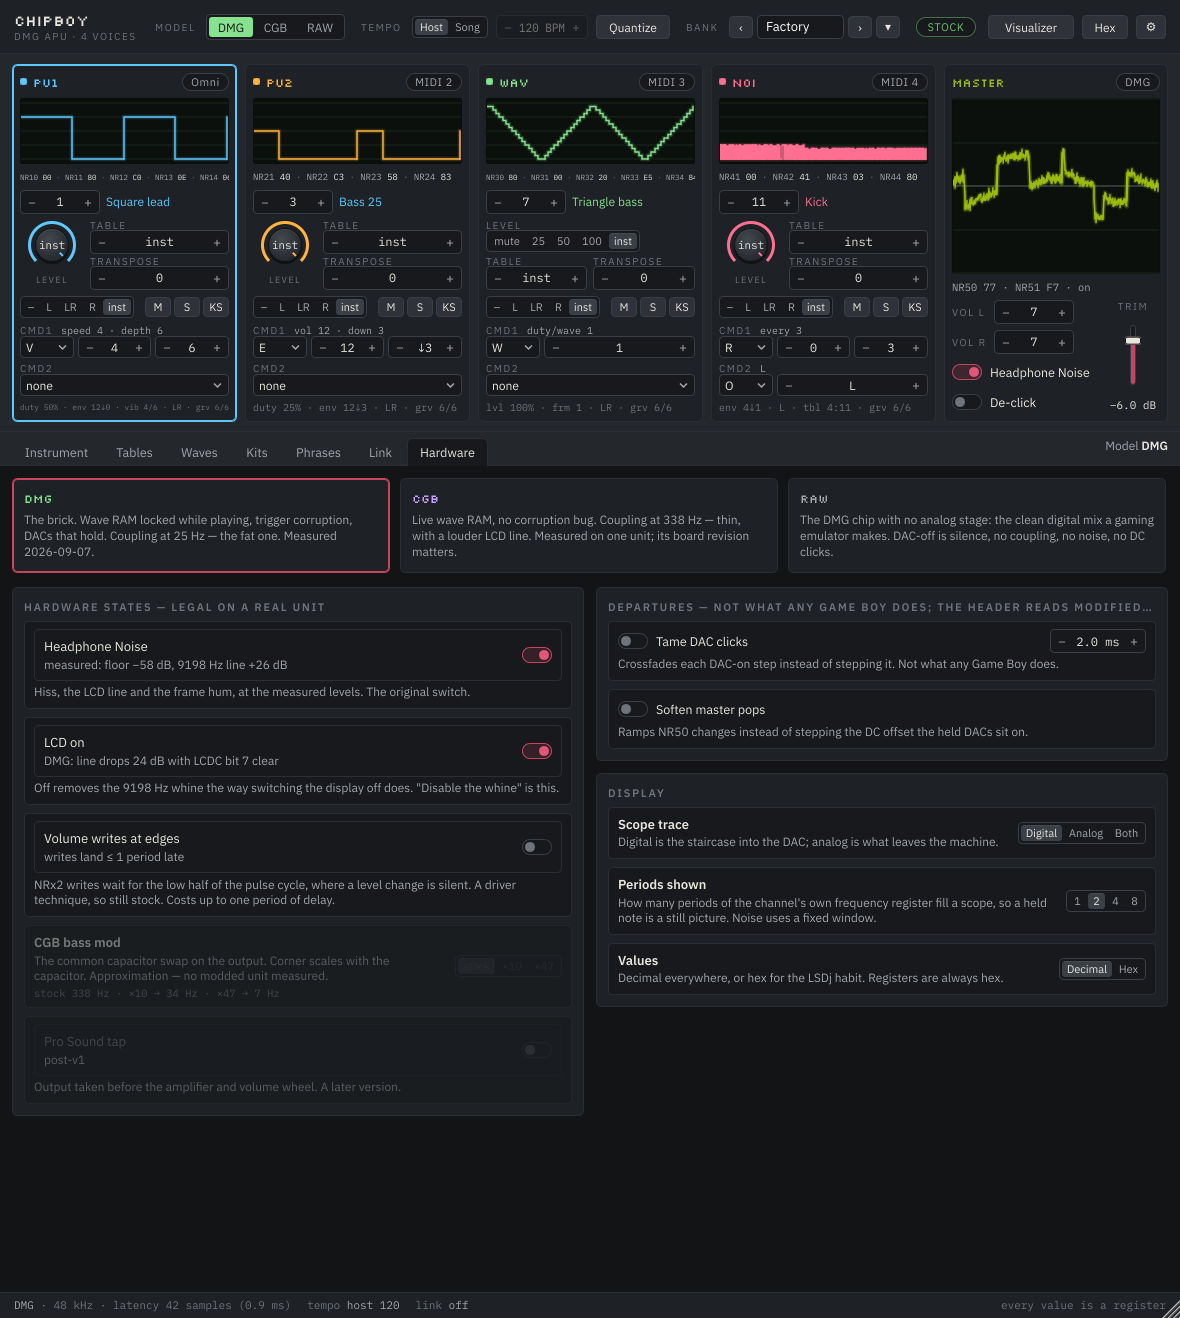
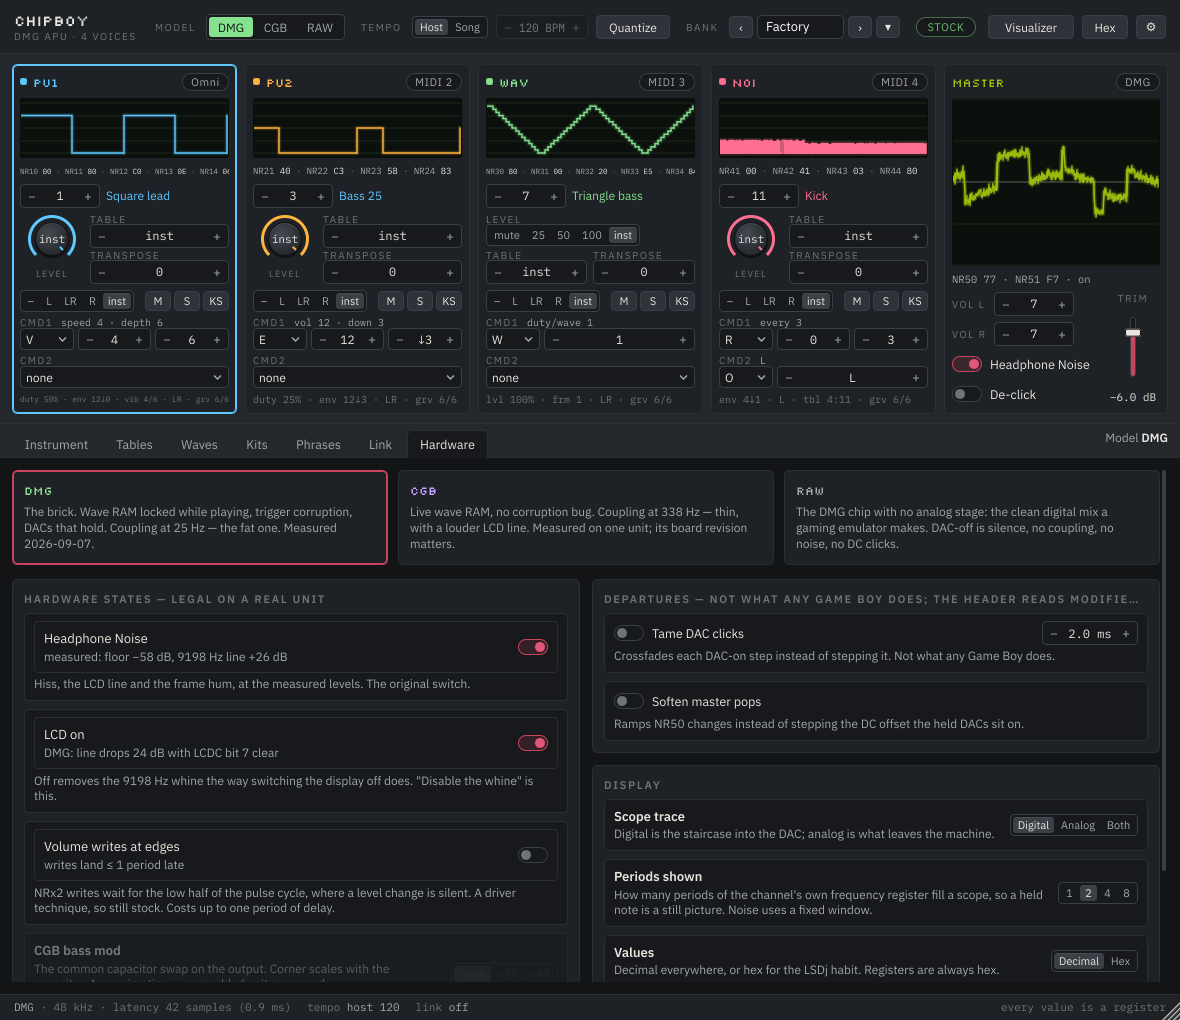
The window fits a 1080p screen: 1180 x 1020
1318 was taller than a 1080p desktop leaves once the host has taken its
own chrome, so the tab that set it got denser rather than the window
getting a scrollbar back.

The Instrument tab lays its four cards two to a row -- Sound beside
Envelope, Modulation beside Table & note behaviour. The left column is
the width three 150 px field columns need and the right two, so the
knobs and segments sit three and two abreast instead of filing down one
wide column: 510 px of content where the single column wanted 802, with
every field still there. The envelope preview is 90 px of drawing, which
is all a one-second envelope needs, and at that width the Result sits
beside the Rate knob instead of taking a row of its own. The wave's
Frame loop takes two field columns, its three words being too long for
one.

The mixer strip is 350 rather than 358: the scope is 60 px instead of
66, and the two command slots and the running-state line read as one
block on a 4 px gap.

So the minimum is header 54 + mixer row 370 + tab bar 34 + a 536 editor
pane + status line 26. The pane is 512 and its padding, which is what the
two fullest tabs ask for: the Instrument cards need 510 and the Phrases
lane's sixteen steps 512 under its head, so neither scrolls at the
smallest size. The Hardware tab wants 654 and scrolls until the window is
stretched, as the 128-slot bank lists always will.

Claude-Session: https://claude.ai/code/session_015RVPKMpKBZ57UV3Y3PWKkJ

diff --git a/Source/plugin/main/panels/InstrumentPanel.cpp b/Source/plugin/main/panels/InstrumentPanel.cpp
@@ -9,6 +9,14 @@ using namespace chipboy::ui;
 
 namespace {
 constexpr int kListWidth = 220, kGap = 14, kListHeader = 28, kListButtons = 26;
+/// The cards go two to a row. The right column is fixed at the width two
+/// 150 px field columns need with the card's padding; the left column takes
+/// the rest, which is three of them. Keeping the tab down to two card rows
+/// is what lets the window fit a 1080p screen (UI_DESIGN section 2).
+constexpr int kNarrowCard = 380;
+/// One second of envelope. It reads at this width, and at this width the
+/// Result sits beside the Rate knob instead of taking a row of its own.
+constexpr int kEnvPreview = 90;
 
 String envMsText(int rate) { return rate > 0 ? String(rate * 15.625, 1) + " ms/step" : String("hold"); }
 String dash() { return String(CharPointer_UTF8("\xe2\x80\x93")); }
@@ -383,12 +391,12 @@ void InstrumentPanel::rebuildEditor()
         k->onChange = [this, set](int v) { edit([set, v](bank::Instrument& i) { set(i, v); }); };
         return g.addField(label, hint, std::move(k), Knob::kHeight, Knob::kWidth);
     };
-    auto seg = [this](FlowGrid& g, const String& label, const String& hint, const StringArray& opts, std::function<void(bank::Instrument&, int)> set) {
+    auto seg = [this](FlowGrid& g, const String& label, const String& hint, const StringArray& opts, std::function<void(bank::Instrument&, int)> set, int columns = 1) {
         auto s = std::make_unique<Segmented>(opts);
         s->setMini(true);
         s->onChange = [this, set](int v) { edit([set, v](bank::Instrument& i) { set(i, v); }); };
         const int h = s->preferredHeight(), w = s->preferredWidth();
-        return g.addField(label, hint, std::move(s), h, w);
+        return g.addField(label, hint, std::move(s), h, w, columns);
     };
     auto stepper = [this](FlowGrid& g, const String& label, const String& hint, int lo, int hi, int def, std::function<String(int)> text, std::function<void(bank::Instrument&, int)> set, int width) {
         auto s = std::make_unique<Stepper>();
@@ -426,7 +434,8 @@ void InstrumentPanel::rebuildEditor()
                            [this](int v) { const auto bk = processor.bank(); const bank::Wave* wv = bk ? bk->wave(v) : nullptr; return wv ? slotAndName(v, wv->name) + middot() + String(int(wv->frames.size())) + " fr" : slotAndName(v, "empty"); },
                            [](bank::Instrument& i, int v) { i.wave = uint8_t(v); }, 0);
         w_->frameAdv = knob(*sound, "Frame advance", "ticks per frame; 0 holds", 0, 15, 0, [](bank::Instrument& i, int v) { i.frameAdvance = uint8_t(v); });
-        w_->frameLoop = seg(*sound, "Frame loop", "how the frames run", { "Loop", "One-shot", "Ping-pong" }, [](bank::Instrument& i, int v) { i.frameLoop = bank::FrameLoop(std::clamp(v, 0, 2)); });
+        // three long words: it takes two field columns rather than squeeze
+        w_->frameLoop = seg(*sound, "Frame loop", "how the frames run", { "Loop", "One-shot", "Ping-pong" }, [](bank::Instrument& i, int v) { i.frameLoop = bank::FrameLoop(std::clamp(v, 0, 2)); }, 2);
         w_->waveLevel = seg(*sound, "Volume", "NR32 6-5" + middot() + "no envelope here", { "mute", "25", "50", "100" }, [](bank::Instrument& i, int v) { i.waveLevel = uint8_t(v); });
     } else if (type == bank::InstrumentType::Kit) {
         w_->kit = stepper(*sound, "Kit", "streamed through wave RAM", 1, bank::kKitSlots, 1,
@@ -443,10 +452,10 @@ void InstrumentPanel::rebuildEditor()
         w_->noiseSweep = knob(*sound, "Noise sweep", "shift steps per tick, repeated NR43 writes", -7, 7, 0, [](bank::Instrument& i, int v) { i.noiseSweep = int8_t(v); },
                               [](int v) { return ValueFormat::signedNumber(v); });
     }
-    stack->add(std::make_unique<Card>("Sound", std::move(sound)));
+    std::vector<std::unique_ptr<Block>> cards;
+    cards.push_back(std::make_unique<Card>("Sound", std::move(sound)));
 
-    // --- envelope | modulation ------------------------------------------------
-    auto groups = std::make_unique<Columns>(12);
+    // --- envelope ---------------------------------------------------------
     const bool hasEnvelope = type == bank::InstrumentType::Pulse || type == bank::InstrumentType::Noise;
     if (hasEnvelope) {
         const String nr = type == bank::InstrumentType::Noise ? "NR42" : "NR12/22";
@@ -456,20 +465,20 @@ void InstrumentPanel::rebuildEditor()
         w_->envRate = knob(*env, "Rate", nr + " 2-0: 0 = hold, 1-7 = n x 15.6 ms", 0, 7, 0, [](bank::Instrument& i, int v) { i.envRate = uint8_t(v); });
         auto preview = std::make_unique<EnvPreview>();
         w_->envPreview = preview.get();
-        w_->envResult = env->add(std::make_unique<Field>("Result", envMsText(inst.envRate), std::move(preview), 64, 0, 2));
-        groups->add(std::make_unique<Card>("Envelope", std::move(env), String(CharPointer_UTF8("\xe2\x80\x94")) + " one " + nr + " write, then the chip runs it"));
+        w_->envResult = env->add(std::make_unique<Field>("Result", envMsText(inst.envRate), std::move(preview), 64, kEnvPreview));
+        cards.push_back(std::make_unique<Card>("Envelope", std::move(env), String(CharPointer_UTF8("\xe2\x80\x94")) + " one " + nr + " write, then the chip runs it"));
     }
+
+    // --- modulation -------------------------------------------------------
     auto mod = std::make_unique<FlowGrid>();
     w_->vibShape = seg(*mod, "Vibrato", "a signed period offset, recomputed each tick", { "Tri", "Sq", String(CharPointer_UTF8("Saw\xe2\x86\x91")), String(CharPointer_UTF8("Saw\xe2\x86\x93")) },
                        [](bank::Instrument& i, int v) { i.vib.shape = bank::VibShape(std::clamp(v, 0, 3)); });
     w_->vibSpeed = knob(*mod, "Speed", "ticks per step", 1, 15, 4, [](bank::Instrument& i, int v) { i.vib.speed = uint8_t(v); });
     w_->vibDepth = knob(*mod, "Depth", "raw period units, not cents", 0, 15, 0, [](bank::Instrument& i, int v) { i.vib.depth = uint8_t(v); });
     w_->vibDelay = knob(*mod, "Delay", "ticks before it starts", 0, 255, 0, [](bank::Instrument& i, int v) { i.vib.delay = uint8_t(v); });
-    groups->add(std::make_unique<Card>("Modulation", std::move(mod)));
-    stack->add(std::move(groups));
+    cards.push_back(std::make_unique<Card>("Modulation", std::move(mod)));
 
-    // --- table & note behaviour ------------------------------------------------
-    auto groups2 = std::make_unique<Columns>(12);
+    // --- table & note behaviour -------------------------------------------
     auto tab = std::make_unique<FlowGrid>();
     w_->table = stepper(*tab, "Table", "runs from note-on, one step per tick", 0, bank::kTableSlots, 0,
                         [this](int v) { if (v == 0) return String("none"); const auto bk = processor.bank(); const bank::Table* t = bk ? bk->table(v) : nullptr; return t ? slotAndName(v, t->name) : slotAndName(v, "empty"); },
@@ -481,9 +490,18 @@ void InstrumentPanel::rebuildEditor()
     w_->length = stepper(*tab, "Length", longLength ? "NR31" + middot() + "off or 1-256" : "NRx1 5-0" + middot() + "off or 1-64", 0, longLength ? 256 : 64, 0,
                          [](int v) { return v == 0 ? String("off") : ValueFormat::number(v); }, [](bank::Instrument& i, int v) { i.length = uint16_t(v); }, 100);
     w_->pan = seg(*tab, "Pan", "NR51 default for this instrument", { dash(), "L", "LR", "R" }, [](bank::Instrument& i, int v) { i.pan = panFromIndex(v); });
-    groups2->add(std::make_unique<Card>("Table & note behaviour", std::move(tab)));
-    groups2->add(std::make_unique<Space>(1));
-    stack->add(std::move(groups2));
+    cards.push_back(std::make_unique<Card>("Table & note behaviour", std::move(tab)));
+
+    // Two cards to a row, each row as tall as the taller of its two: Sound
+    // beside Envelope, Modulation beside Table, and the whole tab fits.
+    for (size_t i = 0; i < cards.size(); i += 2) {
+        auto row = std::make_unique<Columns>(12);
+        row->setWidths({ 0, kNarrowCard });
+        row->add(std::move(cards[i]));
+        if (i + 1 < cards.size()) row->add(std::move(cards[i + 1]));
+        else row->add(std::make_unique<Space>(1));
+        stack->add(std::move(row));
+    }
 
     scroll_.setContent(std::move(stack));
     syncValues();

diff --git a/Source/plugin/main/panels/MixerRow.cpp b/Source/plugin/main/panels/MixerRow.cpp
@@ -8,8 +8,8 @@ using namespace juce;
 using namespace chipboy::ui;
 
 namespace {
-constexpr int kPad = 8, kGap = 6;
-constexpr int kHead = 20, kScope = 66, kRegs = 14, kRow = 24, kQuick = 70, kSeg = 22, kCaption = 10, kState = 14;
+constexpr int kPad = 8, kGap = 6, kTightGap = 4;
+constexpr int kHead = 20, kScope = 60, kRegs = 14, kRow = 24, kQuick = 70, kSeg = 22, kCaption = 10, kState = 14;
 constexpr int kButton = 26, kButtonH = 20;
 const char* kMuteTip = "NR51 gate off. Pops like the hardware.";
 const char* kSoloTip = "Gates the other three off (NR51). Pops like the hardware.";
@@ -324,11 +324,13 @@ void ChannelStrip::resized()
     pan_.setBounds(x, y, panW, kSeg);
     int bx = x + w - buttons;
     for (auto* b : { &mute_, &solo_, &keyswitch_ }) { b->setBounds(bx, y + (kSeg - kButtonH) / 2, kButton, kButtonH); bx += kButton + 3; }
-    y += kSeg + kGap;
+    // the two slots and the state line read as one block, so they sit on
+    // the tighter gap
+    y += kSeg + kTightGap;
     cmd1_.setBounds(x, y, w, ui::CommandSlot::kHeight);
-    y += ui::CommandSlot::kHeight + 4;
+    y += ui::CommandSlot::kHeight + kTightGap;
     cmd2_.setBounds(x, y, w, ui::CommandSlot::kHeight);
-    y += ui::CommandSlot::kHeight + 4;
+    y += ui::CommandSlot::kHeight + kTightGap;
     stateBox_.setBounds(x, y, w, kState);
 }
 

diff --git a/Source/plugin/ui/Theme.h b/Source/plugin/ui/Theme.h
@@ -117,11 +117,13 @@ public:
 
 /// Window sizes at 100 % (UI_DESIGN sections 2 and 8). The main window is
 /// fixed in width and stretches in height: kMainHeight is the default and
-/// the smallest height, the one the Instrument tab's tallest content (a
-/// Pulse instrument, every card) fits into without a scrollbar --
-/// header 54 + mixer row 378 + tab bar 34 + editor pane 826 + status 26.
+/// the smallest height, and it fits a 1080p screen --
+/// header 54 + mixer row 370 + tab bar 34 + editor pane 536 + status 26.
+/// The pane is 512 and its 2 x 12 padding: 512 is what the Instrument tab's
+/// tallest content asks for (a Pulse or Noise instrument, every card: 510)
+/// and what the Phrases lane's sixteen steps need under its head (512).
 constexpr int kMainWidth = 1180;
-constexpr int kMainHeight = 1318;
+constexpr int kMainHeight = 1020;
 constexpr int kMainMaxHeight = 2400;   ///< as tall as a screen is ever likely to be at 100 %
 constexpr int kVoiceWidth = 560;
 constexpr int kVoiceHeight = 420;

diff --git a/Source/plugin/main/panels/MixerRow.h b/Source/plugin/main/panels/MixerRow.h
@@ -27,9 +27,10 @@ public:
     void setAnalogCornerHz(double hz);
     std::function<void(int)> onSelect;
 
-    /// 8 + 20 head + 66 scope + 14 registers + 24 instrument + 70 level
-    /// + 22 pan + two 34 command slots + 14 running state, with the gaps.
-    static constexpr int kHeight = 358;
+    /// 8 + 20 head + 60 scope + 14 registers + 24 instrument + 70 level
+    /// + 22 pan + two 34 command slots + 14 running state, with the gaps
+    /// (6 down to the pan row, then 4 through the block at the bottom).
+    static constexpr int kHeight = 350;
     void paint(juce::Graphics&) override;
     void resized() override;
     void mouseDown(const juce::MouseEvent&) override;

diff --git a/CHANGES.md b/CHANGES.md
@@ -26,20 +26,31 @@ intended product rather than a progress report.
 
 ## Spec revisions
 
-### 2026-09-08 — the window stretches, and tempo moves to the header (UI_DESIGN §2, §7)
+### 2026-09-08 — the window fits a screen and stretches, tempo moves to the header (UI_DESIGN §2, §6, §7)
 
-The main window was 1180 x 760 and fixed, which the Instrument tab never fitted: a
-Pulse instrument with all four cards is 802 px of editor, so the tab always opened
-scrolled.
+The main window was 1180 x 760 and fixed, which the Instrument tab never fitted: it
+always opened scrolled, because one instrument's four cards were stacked one under
+the other down a full-width column.
 
 **Changed:**
 
-- **The window is 1180 x 1318 at 100 %, and 1318 is now its minimum.** The number is
-  the Instrument tab's own: header 54 + mixer row 378 + tab bar 34 + 826 for the
-  editor pane (802 of content and its 2 x 12 padding) + status line 26. The Instrument
-  tab shows no scrollbar at the default size.
+- **The window is 1180 x 1020 at 100 %, and 1020 is now its minimum** — small enough
+  for a 1080p screen with the host's own chrome around it. It is header 54 + mixer row
+  370 + tab bar 34 + a 536 editor pane (512 of content and its 2 x 12 padding) + status
+  line 26, and 512 is what the two fullest tabs ask for: the Instrument tab's cards
+  need 510, the Phrases lane's sixteen steps 512 under its head. Neither shows a
+  scrollbar at the default size. The Hardware tab (654) still scrolls until the window
+  is stretched, as the bank lists always will.
+- **The Instrument tab is two cards to a row**: Sound beside Envelope, Modulation
+  beside Table & note behaviour. The left column is wide enough for three field
+  columns and the right for two, and every field stays — 510 px where the single
+  column wanted 802. The envelope preview is 90 px of drawing, which is all a
+  one-second envelope needs, so the Result sits beside the Rate knob instead of taking
+  a row of its own.
+- **The mixer strip is 350 rather than 358**: the scope is 60 px instead of 66, and the
+  two command slots and the running-state line read as one block on a 4 px gap.
 - **The height stretches, the width does not.** The constrainer pins the width to the
-  scaled 1180 and the minimum height to the scaled 1318, so the corner resizer only
+  scaled 1180 and the minimum height to the scaled 1020, so the corner resizer only
   moves vertically. Header, mixer row and tab bar keep their heights at the top and
   the status line stays at the bottom: every extra pixel is the editor pane's. The
   chosen height is remembered in `apvts.state` as `ui_height`, unscaled, the way
@@ -54,8 +65,8 @@ scrolled.
   name included. Code identifiers and the prose in these documents keep the British
   spelling.
 
-**Not changed:** the width, the scale steps, the panel layouts, and the status line's
-"tempo host 120 / song 150".
+**Not changed:** the width, the scale steps, every control and field the panels had,
+and the status line's "tempo host 120 / song 150".
 
 ### 2026-09-07 — the demo and the documents follow the new model (§8.1, §8.2, §12.3, §12.4)
 

diff --git a/docs/UI_DESIGN.md b/docs/UI_DESIGN.md
@@ -49,14 +49,16 @@ This is the design you described, made concrete. The alternatives were weighed:
 
 ## 2. The main window
 
-1180 wide like a hardware unit, 1318 tall at minimum, at 100% — with 125% and 150%
+1180 wide like a hardware unit, 1020 tall at minimum, at 100% — with 125% and 150%
 scaling, which multiplies both. The width never changes; the height stretches, so the
 corner resizer only moves vertically and every pixel it adds goes to the editor pane
-(the Phrases lane and the bank lists get the room). 1318 is the height the Instrument
-tab needs: header 54 + mixer row 378 + tab bar 34 + the tallest instrument editor,
-826 with its padding + status line 26. The chosen height is remembered with the
-project, as the scale is. Reading order is top to bottom: *what am I emulating → what
-is each voice doing → edit the thing I selected.*
+(the bank lists and the Hardware tab get the room). 1020 is header 54 + mixer row 370
++ tab bar 34 + a 536 editor pane (512 and its padding) + status line 26, and it fits a
+1080p screen with the host's own chrome. 512 is what the two tabs with the most in them
+ask for: the Instrument tab's four cards, two to a row, need 510, and the Phrases lane's
+sixteen steps need 512 under its head. The chosen height is remembered with the project,
+as the scale is. Reading order is top to bottom: *what am I emulating → what is each
+voice doing → edit the thing I selected.*
 
 1. **Header.** Wordmark; the **model switch** (DMG / CGB / RAW); the **tempo group** —
    source (Host / Song), the song's own BPM, and the *Quantize* toggle (§4); the bank
@@ -216,7 +218,9 @@ the hardware's ranges, and none of the cartridge limits (C10).
   envelope, duty and duty sequence, sweep, length, vibrato shape/speed/depth/delay,
   transpose, table, pan, note-off behaviour, retrigger/legato — plus the wave's frame
   advance and loop mode. The editor shows the field groups for the selected type and the
-  register each field lands in.
+  register each field lands in, as four cards laid two to a row — Sound beside Envelope,
+  Modulation beside Table & note behaviour — so the whole instrument is on screen at the
+  window's smallest size.
 - **Tables** (spec §9.5): 16 steps of volume, transpose, two commands; loop, hop, or
   stop at the end; one step per tick; shared by every instrument that references them.
 - **Commands** (spec §9.6, LSDj lettering): `A` envelope, `C` chord, `D` delay, `F`
